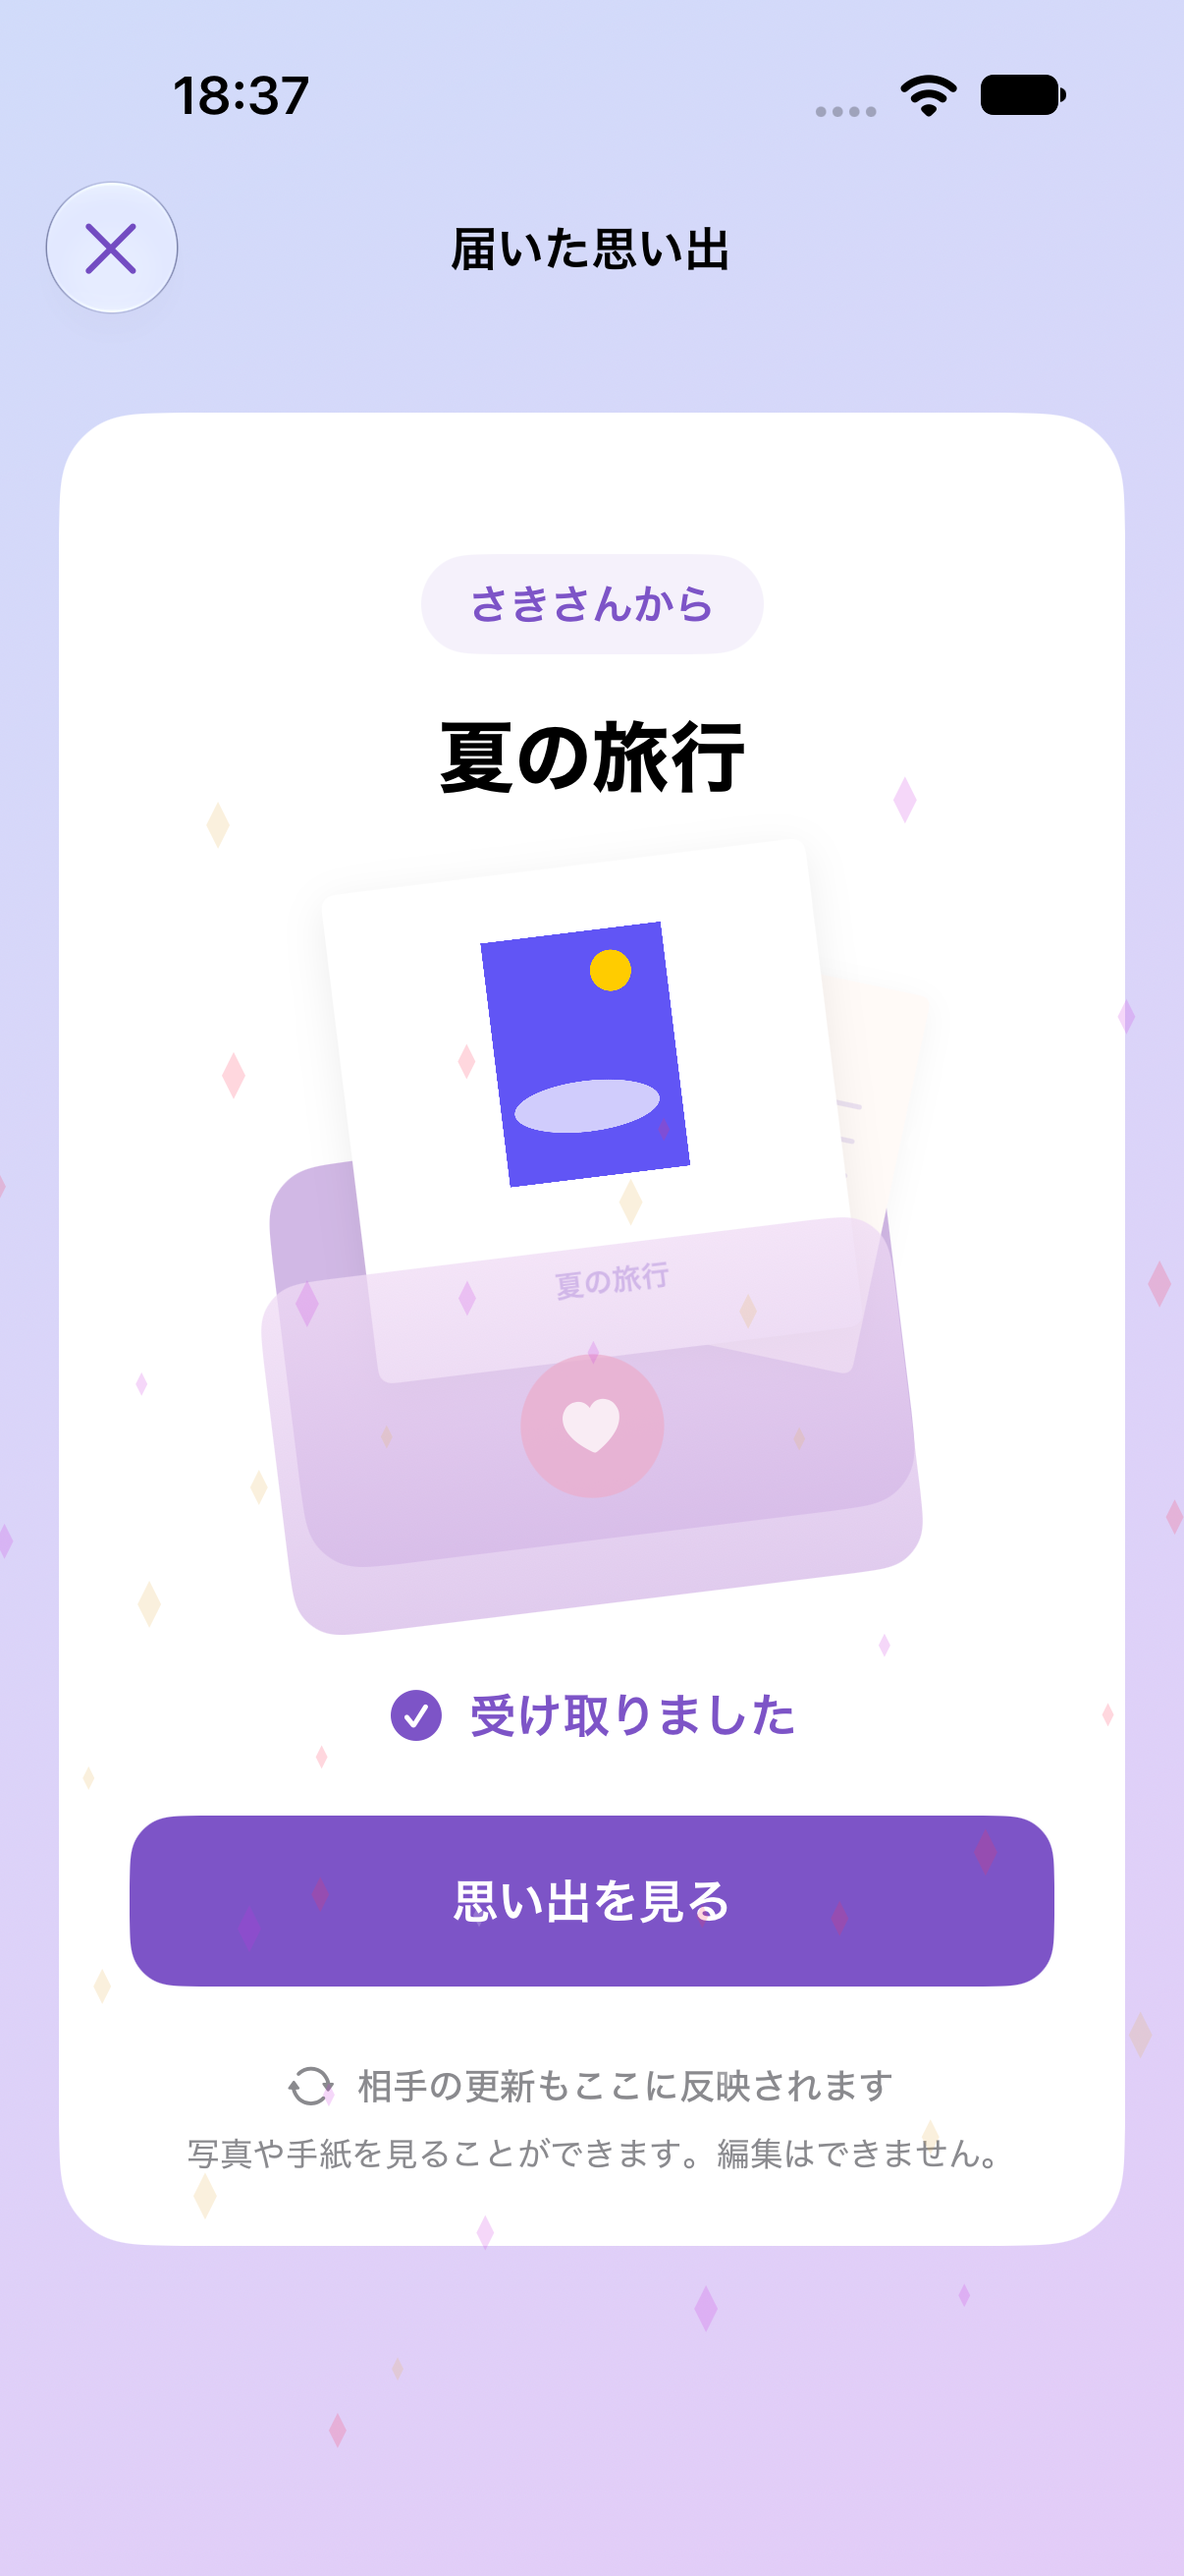
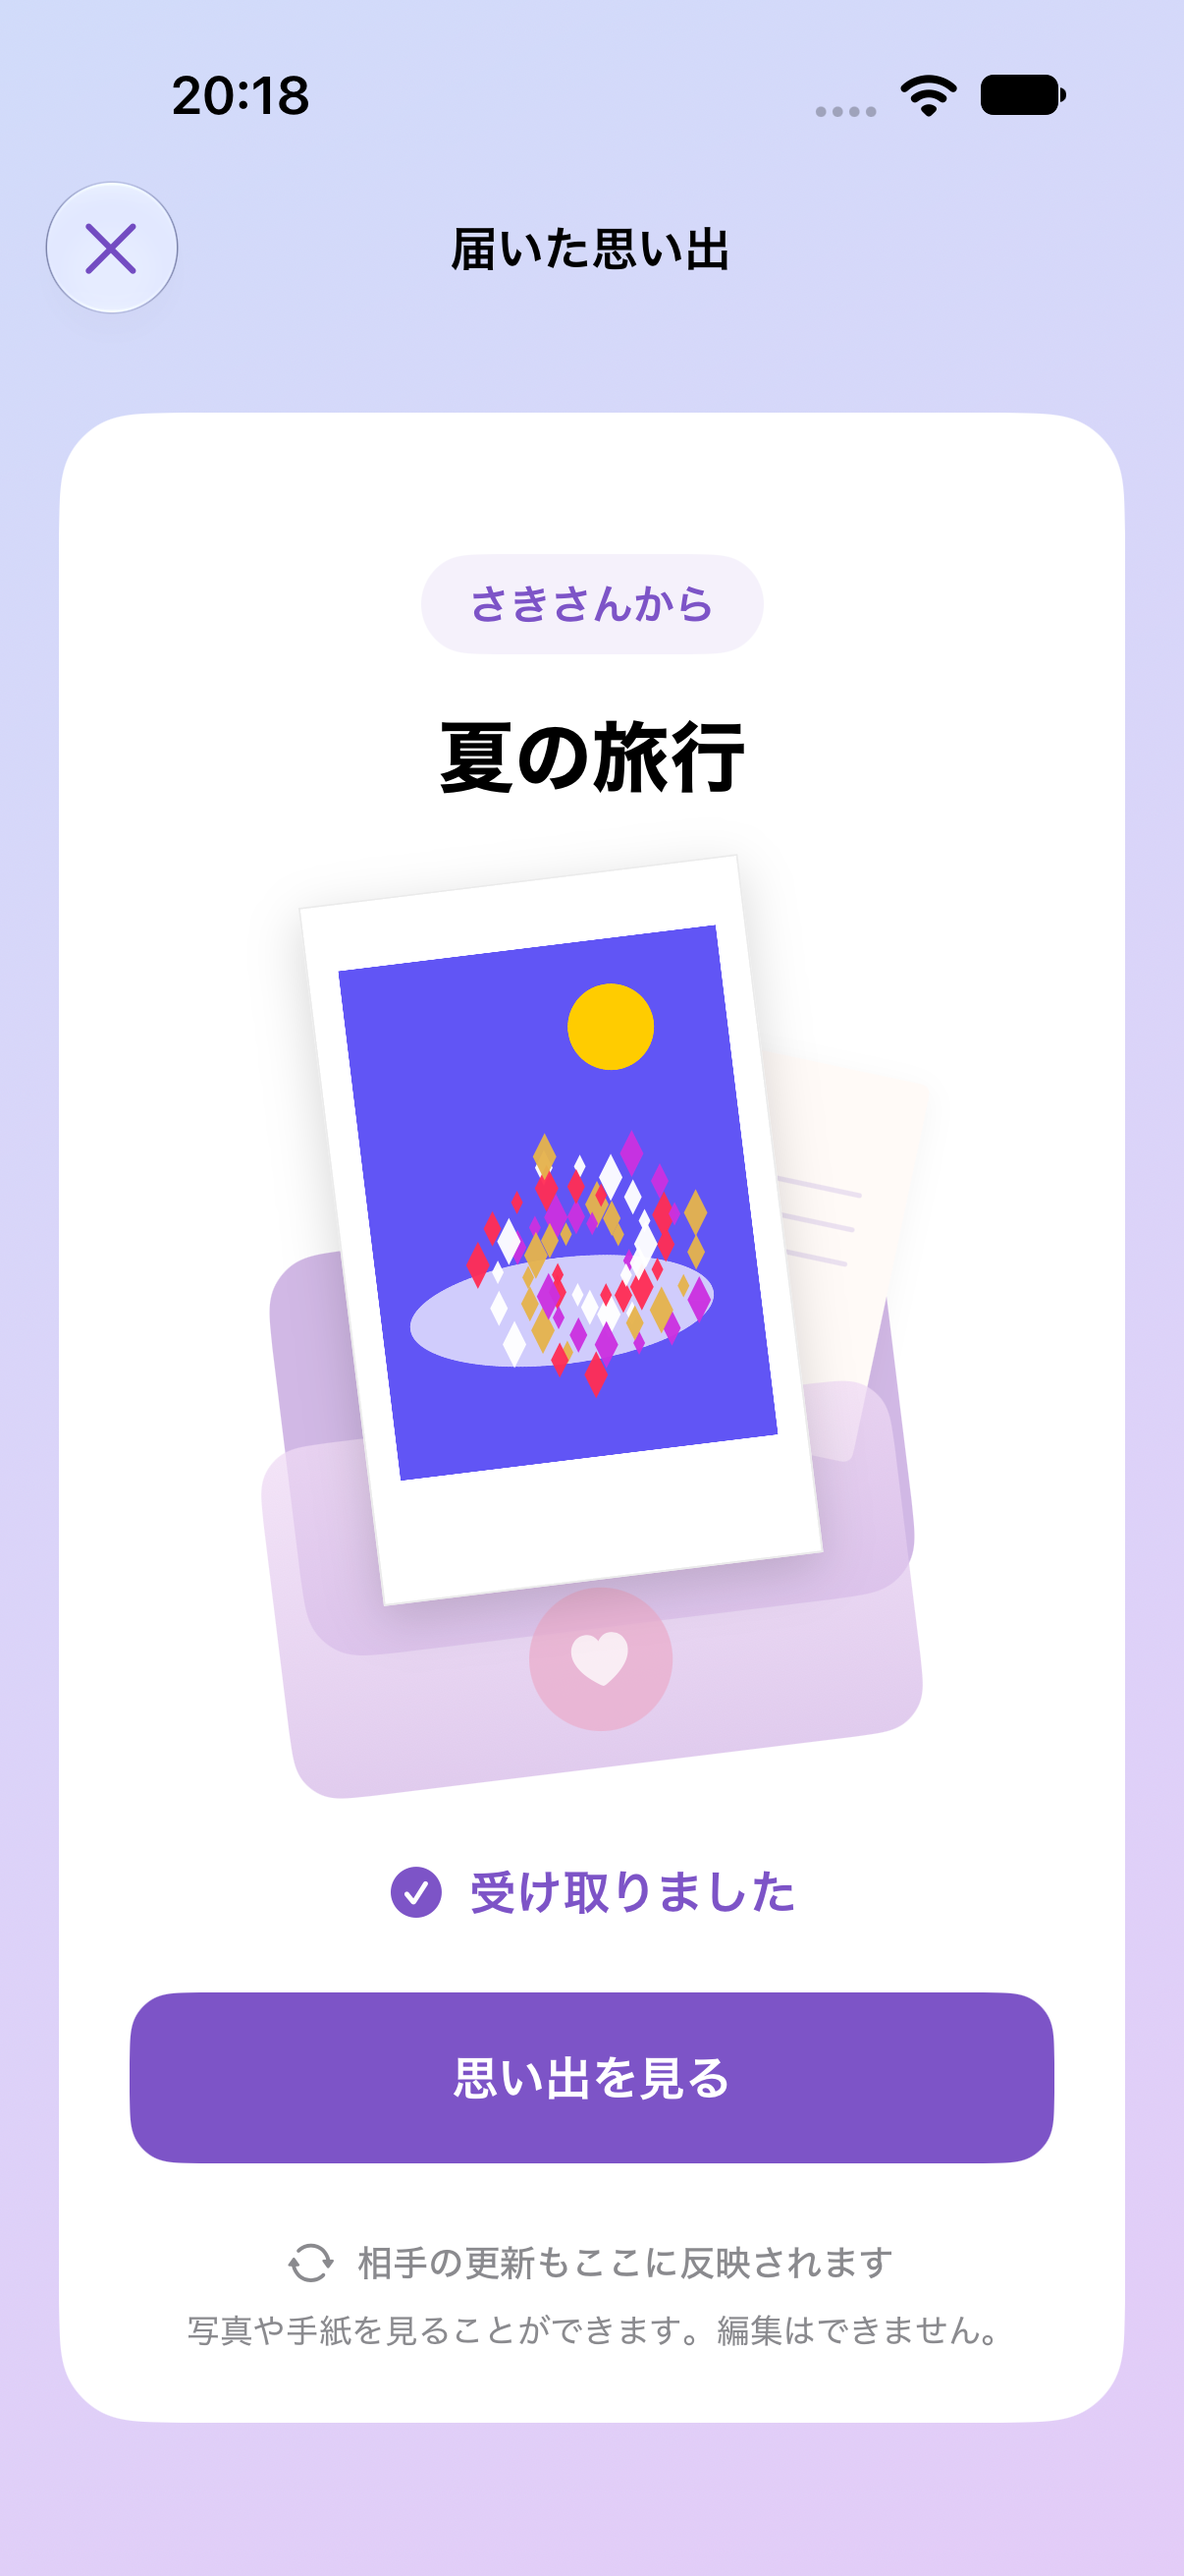
Make invitation cheki silhouettes larger and clearer

diff --git a/sotsugyo/View/FolderInvitationView.swift b/sotsugyo/View/FolderInvitationView.swift
@@ -57,7 +57,7 @@ struct FolderInvitationView: View {
                             }
                             .padding(.top, 24)
                             GiftEnvelope(opened: opened, title: invitation.folder.title, coverImage: preview.photos.first?.image)
-                                .scaleEffect(0.85).frame(height: 250)
+                                .scaleEffect(0.85).frame(height: 310)
                                 .accessibilityIdentifier(preview.photos.isEmpty ? "invite.envelope" : "invite.cover")
                             Label("受け取りました", systemImage: "checkmark.circle.fill")
                                 .font(.headline).foregroundStyle(GiftPalette.purpleText)
@@ -167,7 +167,7 @@ struct FolderInviteShareView: View {
                         Text(folderName)
                             .font(.system(size: 28, weight: .heavy, design: .rounded))
                             .multilineTextAlignment(.center).padding(.top, 20)
-                        GiftEnvelope(opened: true, title: folderName, coverImage: coverImage).scaleEffect(0.85).frame(height: 260)
+                        GiftEnvelope(opened: true, title: folderName, coverImage: coverImage).scaleEffect(0.85).frame(height: 310)
                         Text("写真に音楽や手紙を添えて、\nリンクで送れます。")
                             .font(.subheadline).multilineTextAlignment(.center)
                         if model.isWorking { ProgressView("リンクを準備しています…") }
@@ -237,32 +237,38 @@ private struct GiftEnvelope: View {
             .background(Color(red: 1, green: 0.98, blue: 0.97), in: RoundedRectangle(cornerRadius: 4))
             .rotationEffect(.degrees(12)).offset(x: 52, y: opened ? -38 : 28)
             .shadow(color: .black.opacity(0.04), radius: 6, y: 3)
-            VStack(spacing: 10) {
-                Group {
-                    if let coverImage {
-                        Image(uiImage: coverImage).resizable().scaledToFit()
-                    } else {
+            Group {
+                if let coverImage {
+                    // Saved images already include the cheki border and handwritten decoration.
+                    Image(uiImage: coverImage).resizable().scaledToFit()
+                } else {
+                    VStack(spacing: 12) {
                         ZStack {
                             Rectangle().fill(LinearGradient(colors: [Color(red: 0.78, green: 0.86, blue: 0.98), Color(red: 0.87, green: 0.76, blue: 0.95)], startPoint: .topLeading, endPoint: .bottomTrailing))
                             Image(systemName: "music.note").font(.system(size: 40, weight: .medium)).foregroundStyle(.white)
                         }
+                        Text(title).font(.system(size: 11, weight: .bold, design: .rounded))
+                            .foregroundStyle(GiftPalette.purple).lineLimit(1)
+                            .frame(height: 26)
                     }
-                }.frame(width: 150, height: 120)
-                Text(title).font(.system(size: 11, weight: .bold, design: .rounded))
-                    .foregroundStyle(GiftPalette.purple).lineLimit(1)
+                    .padding(.horizontal, 12).padding(.top, 18).padding(.bottom, 16)
+                }
             }
-            .padding(12).padding(.bottom, 8).frame(width: 174)
-            .background(.white, in: RoundedRectangle(cornerRadius: 5))
+            .frame(width: 170, height: 270)
+            .background(.white)
+            .overlay { Rectangle().strokeBorder(.black.opacity(0.08), lineWidth: 0.7) }
             .rotationEffect(.degrees(opened ? -7 : 5))
-            .offset(y: opened ? -48 : 12).scaleEffect(opened ? 1.12 : 0.9)
-            .shadow(color: .black.opacity(0.07), radius: 8, y: 4)
+            .offset(x: opened ? -12 : 0, y: opened ? -40 : 32).scaleEffect(opened ? 1.04 : 0.72)
+            .shadow(color: .black.opacity(0.16), radius: 10, y: 6)
+            .zIndex(opened ? 1 : 0)
             RoundedRectangle(cornerRadius: 20)
                 .fill(LinearGradient(colors: [Color(red: 0.94, green: 0.86, blue: 0.96), Color(red: 0.84, green: 0.73, blue: 0.91)], startPoint: .top, endPoint: .bottom))
                 .frame(width: 254, height: 142).overlay {
                     Image(systemName: "heart.fill")
                         .font(.system(size: 23, weight: .medium)).foregroundStyle(.white)
                         .padding(16).background(Color(red: 0.92, green: 0.68, blue: 0.80), in: Circle())
-                }.rotationEffect(.degrees(-7)).offset(y: opened ? 72 : 68)
+                        .offset(y: opened ? 28 : 0)
+                }.rotationEffect(.degrees(-7)).offset(y: opened ? 102 : 68)
                 .opacity(opened ? 0.75 : 1)
         }
         .accessibilityElement(children: .ignore)

diff --git a/docs/verification/invite-links/README.md b/docs/verification/invite-links/README.md
@@ -1,14 +1,16 @@
 # 招待リンク・開封アニメーションの確認
 
-確認日: 2026-10-06〜2026-10-07（日本時間）
+確認日: 2026-10-06〜2026-10-08（日本時間）
 
 ## 画面
 
 初期企画資料の「チェキ×音楽×プレゼント」に合わせ、水色〜紫の背景と白い台紙、太めの文字、チェキと便箋を入れた封筒で送受信画面を統一しています。送信画面には読み込み済みのフォルダ表紙を表示し、受信画面は受け取り成功後に開封とキラキラの演出を表示します。受信画面では参加完了後にフォルダ一覧と同じ順序の1枚目のチェキを読み込み、封筒のカードに表示します。写真は1枚だけ読み込み、写真なし・読込失敗時は音符の表示を残してフォルダを開けます。参加前の写真取得は行いません。
 
+2026-10-08: 封筒のチェキは保存画像に含まれる白枠・手書き装飾をそのまま表示します。外側に重ねていた白いカードと重複するタイトルを外し、縦長の170×270の表示領域に拡大しました。開封後はチェキ全体を封筒の手前に出し、輪郭に薄い縁と影を付け、下側の余白まで確認できるようにしています。送信画面・受信画面に共通で適用しています。
+
 操作は「リンクで送る」「受け取って開く」「思い出を見る」、一覧は「届いた思い出」と表示します。更新の同期・閲覧専用・リンクの公開範囲の説明は残しています。受信画面は開封前後でボタン位置を維持し、共有内容は便箋とチェキの形で表示します。
 
-Xcode 27.2 beta 2 / iPhone 18 Pro / iOS 27.0 の専用シミュレーター「PicTune Model Review」。写真・送り主名は確認用の架空データです。
+Xcode 27.2 beta 2 / iPhone 18 Pro / iOS 27.0 の専用シミュレーター「PicTune Model Review」、2026-10-08の送受信画像は「PicTune Auth Tests」。写真・送り主名は確認用の架空データです。
 
 | 招待を受け取る | 開封時の演出 | 招待リンクを送る |
 | --- | --- | --- |
@@ -29,6 +31,7 @@ Xcode 27.2 beta 2 / iPhone 18 Pro / iOS 27.0 の専用シミュレーター「Pi
 - 2026-10-07: 受信画面と共有フォルダの調整後、開封・手紙の同期、期限切れ、通信失敗のUIテスト3件が成功。受け取り前後のボタン位置、説明文と手紙の表示をシミュレーター画像で確認。受信・開封・共有フォルダの掲載画像を更新。
 - 2026-10-07: 初期企画資料に合わせた送受信画面・共有内容の調整後、招待作成・無効化、開封・手紙の同期、期限切れ、通信失敗のUIテスト4件が成功。送信表紙、チェキと便箋の開封、文章の折り返しを確認し、掲載画像4枚を更新。ダークモードの受信画面も確認し、文字色調整後にも送信・開封の2件を再実行し成功。
 - 2026-10-07: 受け取り後の1枚目のチェキ表示を追加。関連単体テスト8件、UIテスト3件が成功。先頭画像だけの読み込み、写真削除による表紙のクリア、参加前・参加失敗時は写真を表示しないこと、写真なし・画像取得失敗時も手紙を開けることを確認。最新の開封画像を掲載。
+- 2026-10-08: チェキの形を明確にする調整後、署名付きビルドと送信・開封のUIテスト2件が成功。縦長の輪郭、下側の余白、封筒とハートの重なり、受け取り後の遷移と手紙の同期を確認。送受信画像3枚を更新。
 - `git diff --check` 成功。
 - 2026-10-07: Googleログインで「ようこそ」に戻る原因を、署名なしの検証ビルドによるKeychainエラー（`SecItemCopyMatching -34018`）と確認。通常の署名付きビルドへ入れ替え、ユーザー操作によるGoogleログイン成功、実際の写真一覧・送信画面のチェキ表示、最終ビルドへの更新・再起動後のログイン維持を確認。FirebaseUIの結果通知・画面終了・失敗理由の表示を実装し、ログインシートが閉じた後に招待を再開するよう変更。関連単体14件が成功（Keychainの保存・読み出し、成功・失敗・キャンセル・未完了、Googleエラーの詳細表示、既存の招待復帰など）。実際の個人写真を含むスクリーンショットはリポジトリに掲載していません。
 
